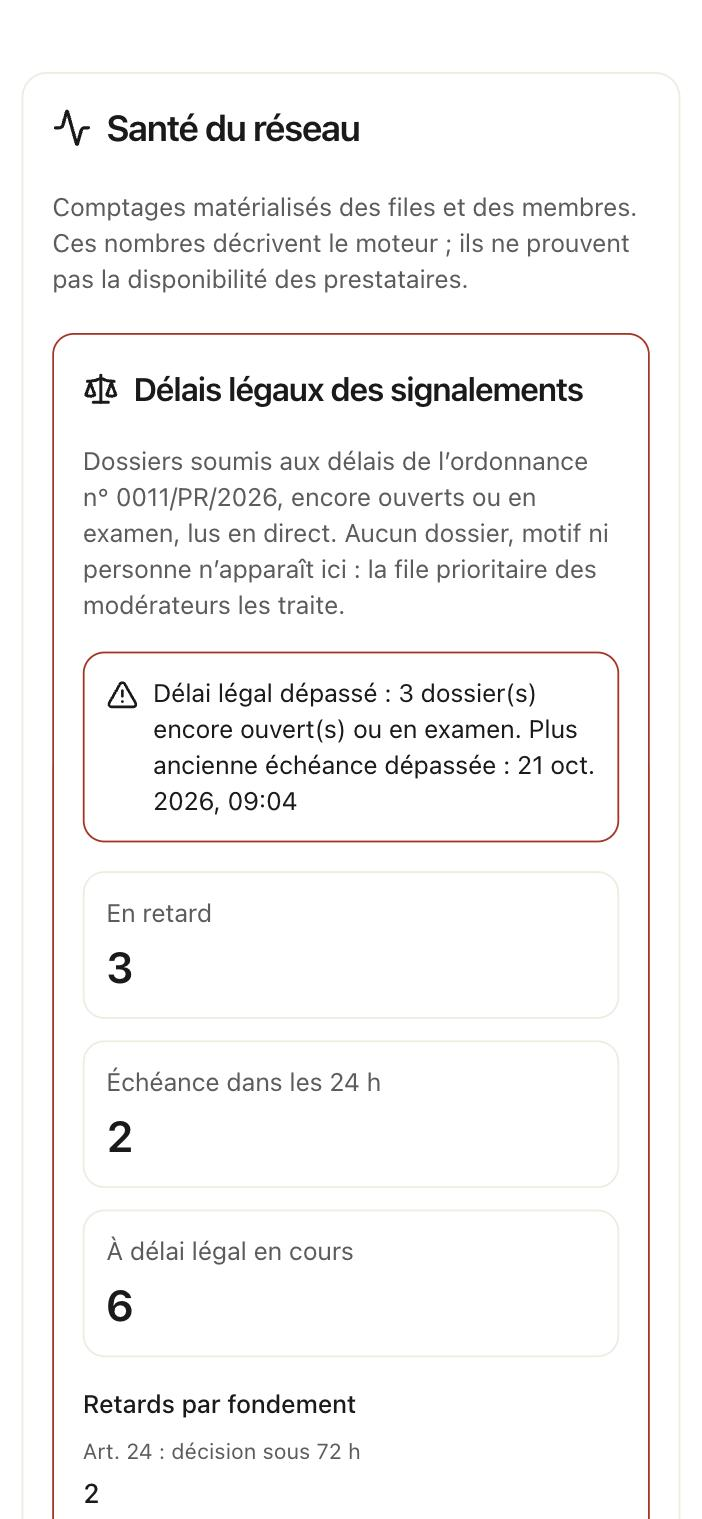
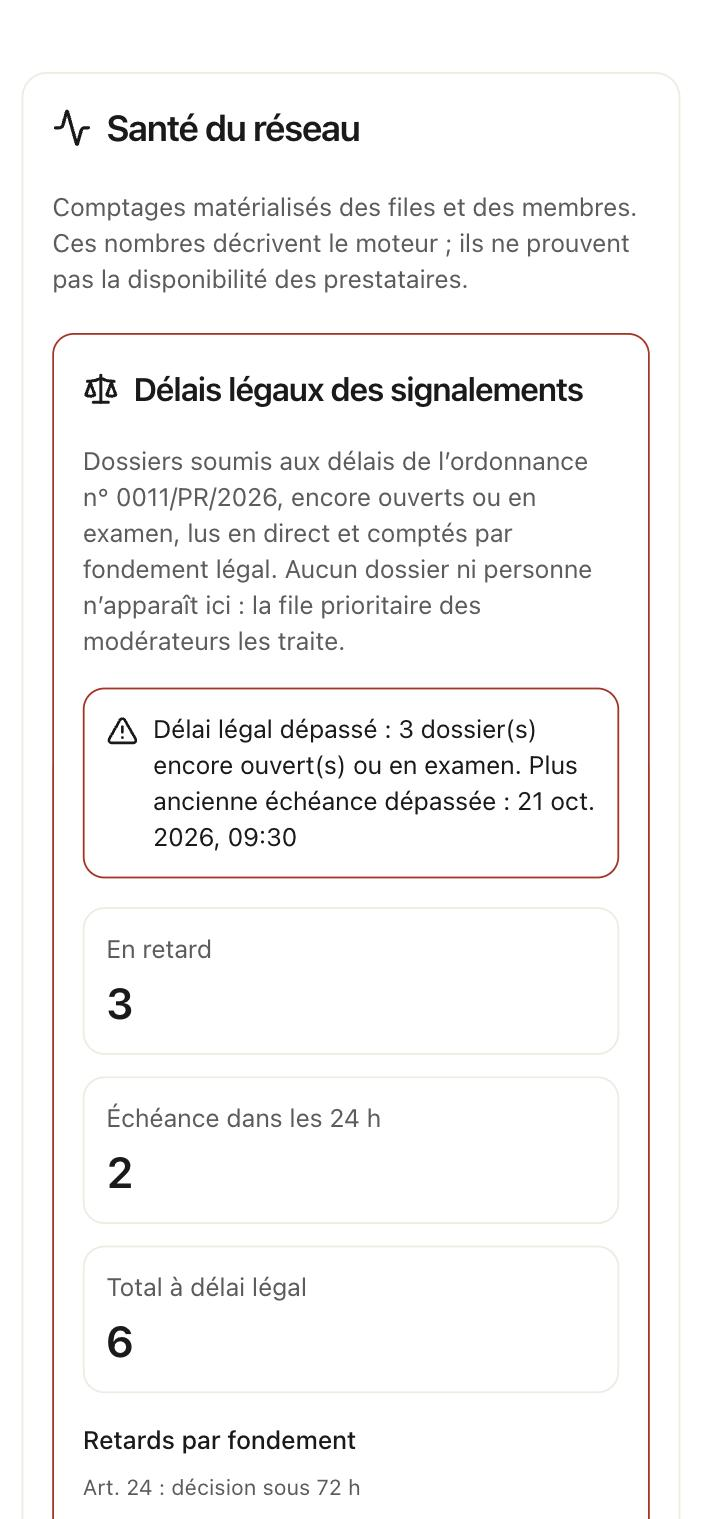
fix(console): suite de la relecture des délais légaux
- Retards par fondement : même exactitude que les retards ; en lecture bornée,
  « au moins N » ou « non déterminé », jamais un faux zéro.
- Le bloc d'alerte a sa propre frontière d'erreur : une lecture en échec (moteur
  pas encore publié) ne retire que lui, « Santé du réseau » reste lisible.
  ConsoleQueryBoundary passe dans les contrôles partagés (sans cycle d'import),
  réexportée par le tableau de bord.
- legalDeadlineAlert : échéances et horizon à la minute inférieure ; le fondement
  dit la classe du motif, jamais le motif ; donnée d'exploitation, hors règle des
  petites cohortes.
- « Total à délai légal » au lieu de « À délai légal en cours ».
- Tests : horizon quand l'un ou l'autre statut est tronqué, arrondi, fondements
  en lecture bornée, repli et relance ; suivi d'exécution et captures à jour.

diff --git a/apps/admin_antsia_ga/src/components/console-legal-deadlines.tsx b/apps/admin_antsia_ga/src/components/console-legal-deadlines.tsx
@@ -3,17 +3,20 @@
 /**
  * SU01d (ordonnance n° 0011/PR/2026, art. 24, 32, 33) — l'alerte d'exploitation des délais légaux,
  * dans « Santé du réseau ». La requête rend les échéances des dossiers encore ouverts ou en examen,
- * sans dossier, motif ni personne ; l'écran les compte à son heure, car une requête réactive n'est
- * pas relue quand le temps passe. La file prioritaire des modérateurs reste le lieu du traitement.
+ * à la minute et par fondement légal seulement ; l'écran les compte à son heure, car une requête
+ * réactive n'est pas relue quand le temps passe. La file prioritaire des modérateurs reste le lieu
+ * du traitement. C'est une donnée d'exploitation : la règle des petites cohortes vise ce qui se
+ * publie ou s'exporte (`/transparence`, export agrégé), pas l'état courant des files.
  */
 import { api, type Id } from "@antsia/api/engine"
 import { REPORT_DEADLINES_ORDINANCE, REPORT_LEGAL_BASES, reportDecisionDelayHours, type ReportLegalBasis } from "@antsia/social-domain/moderation"
+import { Button } from "@antsia/ui"
 import { useQuery } from "convex/react"
 import { AlertTriangle, Scale } from "lucide-react"
 import { useId } from "react"
 import { useTranslation } from "react-i18next"
 
-import { ConsoleDate, LoadingRows } from "./console-operation-controls"
+import { ConsoleDate, ConsoleQueryBoundary, controlStyle, LoadingRows } from "./console-operation-controls"
 
 /** « Dans les 24 h » : le délai le plus court de l'ordonnance (art. 32 et 33). */
 export const LEGAL_DUE_SOON_MS = 24 * 3_600_000
@@ -31,6 +34,7 @@ export type LegalDeadlineSummary = {
  * Les comptes de l'alerte à l'instant `now` de l'écran. En retard : échéance atteinte (`dueAt <= now`,
  * comme `reportDeadlineOutcome`). Une lecture bornée laisse hors vue des échéances toutes postérieures
  * ou égales à `horizon` : un compte n'est exact que si sa fenêtre se ferme avant ; sinon, « au moins ».
+ * Les retards par fondement partagent l'exactitude des retards.
  */
 export function summarizeLegalDeadlines(dto: Pick<LegalDeadlineAlertDto, "horizon" | "deadlines">, now: number): LegalDeadlineSummary {
   const overdueByBasis: Record<ReportLegalBasis, number> = { art24: 0, art32: 0, art33: 0 }
@@ -48,8 +52,28 @@ export function summarizeLegalDeadlines(dto: Pick<LegalDeadlineAlertDto, "horizo
   return { overdue, overdueExact: now < beyond, dueSoon, dueSoonExact: now + LEGAL_DUE_SOON_MS < beyond, open: dto.deadlines.length, openExact: dto.horizon === null, oldestOverdueAt, overdueByBasis }
 }
 
-/** Le bloc d'alerte, lu en direct et compté à l'heure `now` de « Santé du réseau ». */
+/** Une lecture en échec (moteur pas encore publié, panne) ne retire que ce bloc, jamais « Santé du réseau ». */
 export function LegalDeadlinesAlert({ networkId, now }: { networkId: Id<"networks">; now: number }) {
+  return <ConsoleQueryBoundary fallback={(_error, retry) => <LegalDeadlinesFailure retry={retry} />}><LegalDeadlinesBlock networkId={networkId} now={now} /></ConsoleQueryBoundary>
+}
+
+function LegalDeadlinesHeading({ id }: { id: string }) {
+  const { t } = useTranslation("operations")
+  return <h3 id={id} className="flex items-center gap-2 text-lg font-semibold"><Scale size={20} className="shrink-0" aria-hidden="true" />{t("health.legal.title")}</h3>
+}
+
+function LegalDeadlinesFailure({ retry }: { retry: () => void }) {
+  const { t } = useTranslation("operations")
+  const headingId = useId()
+  return <section aria-labelledby={headingId} className="flex min-w-0 flex-col gap-3 rounded-lg border border-border p-4">
+    <LegalDeadlinesHeading id={headingId} />
+    <p role="alert" className="text-sm">{t("health.legal.failed")}</p>
+    <div><Button type="button" variant="outline" style={controlStyle} onClick={retry}>{t("session.retry", { ns: "admin" })}</Button></div>
+  </section>
+}
+
+/** Le bloc d'alerte, lu en direct et compté à l'heure `now` de « Santé du réseau ». */
+function LegalDeadlinesBlock({ networkId, now }: { networkId: Id<"networks">; now: number }) {
   const { t, i18n } = useTranslation("operations")
   const headingId = useId()
   const result = useQuery(api.modules.platform.console.legalDeadlineAlert, { networkId })
@@ -59,7 +83,7 @@ export function LegalDeadlinesAlert({ networkId, now }: { networkId: Id<"network
   const count = (value: number, exact: boolean) => exact ? number.format(value) : value === 0 ? t("health.legal.undetermined") : t("health.legal.atLeast", { value: number.format(value) })
   const overdue = summary !== null && summary.overdue > 0
   return <section aria-labelledby={headingId} className={`flex min-w-0 flex-col gap-4 rounded-lg border p-4 ${overdue ? "border-destructive" : "border-border"}`}>
-    <h3 id={headingId} className="flex items-center gap-2 text-lg font-semibold"><Scale size={20} className="shrink-0" aria-hidden="true" />{t("health.legal.title")}</h3>
+    <LegalDeadlinesHeading id={headingId} />
     <p className="text-sm text-muted-foreground">{t("health.legal.lead", { ordinance: REPORT_DEADLINES_ORDINANCE })}</p>
     {result === undefined || summary === null ? <LoadingRows /> : <>
       {overdue
@@ -68,7 +92,7 @@ export function LegalDeadlinesAlert({ networkId, now }: { networkId: Id<"network
       <dl className="grid min-w-0 gap-3 sm:grid-cols-3">{([["overdue", summary.overdue, summary.overdueExact], ["dueSoon", summary.dueSoon, summary.dueSoonExact], ["open", summary.open, summary.openExact]] as const).map(([key, value, exact]) => <div key={key} className="min-w-0 rounded-lg border border-border p-3"><dt className="text-sm text-muted-foreground">{t(`health.legal.metrics.${key}`)}</dt><dd className="mt-1 break-words text-2xl font-semibold tabular-nums">{count(value, exact)}</dd></div>)}</dl>
       {overdue ? <div className="flex min-w-0 flex-col gap-2">
         <p className="text-sm font-medium">{t("health.legal.byBasis")}</p>
-        <dl className="grid min-w-0 gap-3 sm:grid-cols-3">{REPORT_LEGAL_BASES.map((basis) => <div key={basis} className="min-w-0"><dt className="text-xs text-muted-foreground">{t(`health.legal.basis.${basis}`, { hours: reportDecisionDelayHours(basis) })}</dt><dd className="mt-1 font-medium tabular-nums">{number.format(summary.overdueByBasis[basis])}</dd></div>)}</dl>
+        <dl className="grid min-w-0 gap-3 sm:grid-cols-3">{REPORT_LEGAL_BASES.map((basis) => <div key={basis} className="min-w-0"><dt className="text-xs text-muted-foreground">{t(`health.legal.basis.${basis}`, { hours: reportDecisionDelayHours(basis) })}</dt><dd className="mt-1 break-words font-medium tabular-nums">{count(summary.overdueByBasis[basis], summary.overdueExact)}</dd></div>)}</dl>
       </div> : null}
       {result.horizon !== null ? <p className="text-xs text-muted-foreground">{t("health.legal.bounded", { limit: result.limit })}</p> : null}
     </>}

diff --git a/convex/modules/platform/console.test.ts b/convex/modules/platform/console.test.ts
@@ -293,6 +293,7 @@ describe("SU01d / délais légaux dans la console", () => {
   const HOUR = 3_600_000
   type LegalCounts = Partial<Pick<Doc<"moderationTransparency">, "legalMet" | "legalMissed" | "legalAuthors">>
   type ReportExtra = Partial<Pick<Doc<"reports">, "legalBasis" | "dueAt" | "reviewedAt">>
+  const minute = (at: number) => Math.floor(at / 60_000) * 60_000
 
   /** Un dossier de fixture : la cible et son auteur ne doivent jamais ressortir de la console. */
   async function report(t: T, networkId: Id<"networks">, ownerPersonId: Id<"persons">, status: Doc<"reports">["status"], extra: ReportExtra, at = Date.now()) {
@@ -345,10 +346,13 @@ describe("SU01d / délais légaux dans la console", () => {
     expect((await f.actor.as.query(C.legalDeadlineAlert, { networkId: f.root })).deadlines).toEqual([{ dueAt, basis: "art24" }])
   })
 
-  it("l'alerte rend les échéances ouvertes ou en examen, la plus proche d'abord, sans dossier, motif ni personne", async () => {
+  it("l'alerte rend les échéances ouvertes ou en examen, la plus proche d'abord, à la minute, sans dossier, motif ni personne", async () => {
     const f = await fixture()
     const owner = await person(f.t, f.root, "auteur-alerte")
-    const now = Date.now()
+    vi.useFakeTimers({ toFake: ["Date"] })
+    // Une transmission à la seconde près : l'échéance sort à la minute inférieure.
+    const now = Date.UTC(2026, 9, 22, 8, 17, 42, 512)
+    vi.setSystemTime(now)
     await report(f.t, f.root, owner, "open", { legalBasis: "art24", dueAt: now + 72 * HOUR })
     await report(f.t, f.root, owner, "reviewing", { legalBasis: "art33", dueAt: now - HOUR })
     await report(f.t, f.root, owner, "open", { legalBasis: "art32", dueAt: now + 2 * HOUR })
@@ -359,13 +363,13 @@ describe("SU01d / délais légaux dans la console", () => {
     await report(f.t, f.other, owner, "open", { legalBasis: "art24", dueAt: now - 4 * HOUR })
     const alert = await f.actor.as.query(C.legalDeadlineAlert, { networkId: f.root })
     expect(alert).toEqual({ limit: 50, horizon: null, deadlines: [
-      { dueAt: now - HOUR, basis: "art33" },
-      { dueAt: now + 2 * HOUR, basis: "art32" },
-      { dueAt: now + 72 * HOUR, basis: "art24" },
+      { dueAt: Date.UTC(2026, 9, 22, 7, 17), basis: "art33" },
+      { dueAt: Date.UTC(2026, 9, 22, 10, 17), basis: "art32" },
+      { dueAt: Date.UTC(2026, 9, 25, 8, 17), basis: "art24" },
     ] })
     const text = JSON.stringify(alert)
-    for (const hidden of [owner, "harassment", "person", f.actor.personId]) expect(text).not.toContain(hidden)
-    expect(await f.actor.as.query(C.legalDeadlineAlert, { networkId: f.other })).toEqual({ limit: 50, horizon: null, deadlines: [{ dueAt: now - 4 * HOUR, basis: "art24" }] })
+    for (const hidden of [owner, "harassment", "person", f.actor.personId, String(now + 2 * HOUR)]) expect(text).not.toContain(hidden)
+    expect(await f.actor.as.query(C.legalDeadlineAlert, { networkId: f.other })).toEqual({ limit: 50, horizon: null, deadlines: [{ dueAt: minute(now - 4 * HOUR), basis: "art24" }] })
   })
 
   it("l'alerte est bornée par statut et dit son horizon ; seul un opérateur vivant la lit, jamais pour un réseau archivé", async () => {
@@ -377,14 +381,32 @@ describe("SU01d / délais légaux dans la console", () => {
     const alert = await f.actor.as.query(C.legalDeadlineAlert, { networkId: f.root })
     // Cinquante ouverts lus, le cinquante et unième fixe l'horizon ; le dossier en examen est lu à part.
     expect(alert.deadlines).toHaveLength(51)
-    expect(alert.horizon).toBe(now + 50 * HOUR)
-    expect(alert.deadlines.slice(0, 50).every((item, n) => item.dueAt === now + n * HOUR && item.basis === "art24")).toBe(true)
-    expect(alert.deadlines[50]).toEqual({ dueAt: now + 100 * HOUR, basis: "art33" })
+    expect(alert.horizon).toBe(minute(now + 50 * HOUR))
+    expect(alert.deadlines.slice(0, 50).every((item, n) => item.dueAt === minute(now + n * HOUR) && item.basis === "art24")).toBe(true)
+    expect(alert.deadlines[50]).toEqual({ dueAt: minute(now + 100 * HOUR), basis: "art33" })
 
     // Un membre du réseau, même auteur des dossiers, n'est pas un opérateur.
     const member = f.t.withIdentity({ subject: "console-auteur-borne" })
     expect(await errorCode(member.query(C.legalDeadlineAlert, { networkId: f.root }))).toBe("operatorRequired")
     await f.t.run(async (ctx) => await ctx.db.patch(f.other, { status: "archived" }))
     expect(await errorCode(f.actor.as.query(C.legalDeadlineAlert, { networkId: f.other }))).toBe("notFound")
+  })
+
+  it("l'horizon est la plus proche des échéances non lues, quel que soit le statut tronqué le plus tôt", async () => {
+    const f = await fixture()
+    const owner = await person(f.t, f.root, "auteur-horizon")
+    const now = Date.now()
+    // Racine : la file ouverte est tronquée la première ; réseau voisin : la file en examen.
+    for (let n = 0; n <= 50; n++) {
+      await report(f.t, f.root, owner, "open", { legalBasis: "art24", dueAt: now + n * HOUR })
+      await report(f.t, f.root, owner, "reviewing", { legalBasis: "art33", dueAt: now + (100 + n) * HOUR })
+      await report(f.t, f.other, owner, "open", { legalBasis: "art24", dueAt: now + (100 + n) * HOUR })
+      await report(f.t, f.other, owner, "reviewing", { legalBasis: "art33", dueAt: now + n * HOUR })
+    }
+    for (const networkId of [f.root, f.other]) {
+      const alert = await f.actor.as.query(C.legalDeadlineAlert, { networkId })
+      expect(alert.horizon).toBe(minute(now + 50 * HOUR))
+      expect(alert.deadlines).toHaveLength(100)
+    }
   })
 })

diff --git a/apps/admin_antsia_ga/src/components/console-operations.test.tsx b/apps/admin_antsia_ga/src/components/console-operations.test.tsx
@@ -190,14 +190,31 @@ describe("raccords des opérations de console", () => {
     await render({ section: "health", networkId: networkA, canAdmin: false })
     expect(container.querySelector('[role="alert"]')?.textContent).toContain("Délai légal dépassé : au moins 50 dossier(s)")
     expect(container.textContent).toContain("Lecture bornée aux 50 échéances les plus proches de chaque statut")
-    // Au-delà de la borne, aucun minimum utile pour les 24 h à venir : ni « 0 », ni « au moins 0 ».
-    const metrics = Array.from(container.querySelectorAll("section section dl:first-of-type dd")).map((element) => element.textContent)
-    expect(metrics.slice(0, 3)).toEqual(["au moins 50", "Non déterminé", "au moins 50"])
+    // Au-delà de la borne, aucun compte ne se dit zéro : ni « 0 », ni « au moins 0 », retards par fondement compris.
+    const legal = Array.from(container.querySelectorAll("section")).find((element) => element.querySelector("h3")?.textContent === "Délais légaux des signalements")
+    expect(Array.from(legal?.querySelectorAll("dd") ?? []).map((element) => element.textContent)).toEqual(["au moins 50", "Non déterminé", "au moins 50", "au moins 50", "Non déterminé", "Non déterminé"])
     state.data["modules/platform/console:legalDeadlineAlert"] = { limit: 50, horizon: null, deadlines: [{ dueAt: now + 48 * 3_600_000, basis: "art24" }] }
     await render({ section: "health", networkId: networkB, canAdmin: false })
     expect(container.querySelector('[role="alert"]')).toBeNull()
     expect(container.textContent).toContain("Aucun délai légal dépassé parmi les dossiers ouverts ou en examen.")
     expect(container.textContent).not.toContain("Retards par fondement")
+  })
+  it("une lecture des délais en échec ne retire que son bloc ; « Réessayer » la relance", async () => {
+    vi.spyOn(console, "error").mockImplementation(() => undefined)
+    let failing = true
+    state.data["modules/platform/console:legalDeadlineAlert"] = () => {
+      if (failing) throw new Error("Could not find public function for 'modules/platform/console:legalDeadlineAlert'")
+      return { limit: 50, horizon: null, deadlines: [] }
+    }
+    state.data["modules/platform/console:getMetrics"] = { status: "ready", generatedAt: 1000, counts: { members: 12, openReports: 3, openAppeals: 0, pendingFiles: 0, deadLetters: 0 } }
+    await render({ section: "health", networkId: networkA, canAdmin: false })
+    expect(container.querySelector('[role="alert"]')?.textContent).toBe("Les délais légaux n’ont pas pu être lus. Les autres indicateurs de cette page restent valables.")
+    // « Santé du réseau » reste lisible : ses compteurs s'affichent toujours.
+    expect(Array.from(container.querySelectorAll("dd")).map((element) => element.textContent)).toContain("12")
+    failing = false
+    await act(async () => button("Réessayer").click())
+    expect(container.querySelector('[role="alert"]')).toBeNull()
+    expect(container.textContent).toContain("Aucun délai légal dépassé parmi les dossiers ouverts ou en examen.")
   })
   it("un acteur humain masqué n'est pas présenté comme le système", async () => {
     state.data["modules/platform/audit:paginateAudit"] = page([

diff --git a/convex/modules/platform/console.ts b/convex/modules/platform/console.ts
@@ -27,6 +27,7 @@ const TEAM_PROJECTION_LIMIT = 500
 const METRIC_BATCH = 50
 // SU01d : échéances lues par statut pour l'alerte, la même borne que la file prioritaire des modérateurs.
 const LEGAL_ALERT_LIMIT = 50
+const minuteOf = (at: number) => Math.floor(at / 60_000) * 60_000
 const emptyCounts = (): Counts => ({ members: 0, openReports: 0, openAppeals: 0, pendingFiles: 0, deadLetters: 0 })
 const motiveOf = (reason: string) => checked(() => assertDecisionReason(reason, 3))
 
@@ -259,10 +260,12 @@ export const aggregateExport = operatorQuery({
 /**
  * SU01d (ordonnance n° 0011/PR/2026, art. 24, 32, 33) — l'alerte d'exploitation des délais légaux :
  * les échéances des dossiers encore ouverts ou en examen, la plus proche d'abord, avec leur seul
- * fondement. Ni dossier, ni cible, ni motif, ni personne : la file prioritaire des modérateurs les
- * traite. L'écran compte les retards avec son horloge, car une requête n'est pas relue quand le
- * temps passe. `horizon` est l'échéance la plus proche restée hors lecture : avant elle, les
- * comptes de l'écran sont exacts ; à partir d'elle, ce sont des minimums.
+ * fondement légal (qui dit la classe du motif, jamais le motif). Ni dossier, ni cible, ni personne :
+ * la file prioritaire des modérateurs les traite. L'écran compte les retards avec son horloge, car
+ * une requête n'est pas relue quand le temps passe. `horizon` est l'échéance la plus proche restée
+ * hors lecture : avant elle, les comptes de l'écran sont exacts ; à partir d'elle, des minimums.
+ * Échéances et horizon sont arrondis à la minute inférieure : l'écran compte à la minute, l'heure
+ * exacte d'une transmission n'a pas à sortir, et un retard s'annonce au plus tôt, jamais en retard.
  */
 export const legalDeadlineAlert = operatorQuery({
   args: { networkId: v.id("networks") },
@@ -275,8 +278,8 @@ export const legalDeadlineAlert = operatorQuery({
       // borné : les LEGAL_ALERT_LIMIT + 1 échéances les plus proches de chaque statut ; `dueAt` absent est exclu par la borne basse.
       const batch = await ctx.db.query("reports").withIndex("by_network_status_dueAt", (q) => q.eq("networkId", network._id).eq("status", status).gte("dueAt", 0)).take(LEGAL_ALERT_LIMIT + 1)
       const beyond = batch[LEGAL_ALERT_LIMIT]?.dueAt
-      if (beyond !== undefined) horizon = horizon === null ? beyond : Math.min(horizon, beyond)
-      for (const row of batch.slice(0, LEGAL_ALERT_LIMIT)) if (row.dueAt !== undefined && row.legalBasis !== undefined) deadlines.push({ dueAt: row.dueAt, basis: row.legalBasis })
+      if (beyond !== undefined) horizon = horizon === null ? minuteOf(beyond) : Math.min(horizon, minuteOf(beyond))
+      for (const row of batch.slice(0, LEGAL_ALERT_LIMIT)) if (row.dueAt !== undefined && row.legalBasis !== undefined) deadlines.push({ dueAt: minuteOf(row.dueAt), basis: row.legalBasis })
     }
     deadlines.sort((a, b) => a.dueAt - b.dueAt)
     return { limit: LEGAL_ALERT_LIMIT, horizon, deadlines }

diff --git a/apps/admin_antsia_ga/src/components/console-dashboard.tsx b/apps/admin_antsia_ga/src/components/console-dashboard.tsx
@@ -12,14 +12,18 @@ import { useMutation, useQuery } from "convex/react"
 import type { FunctionReturnType } from "convex/server"
 import { ArrowLeft, Globe2, Plus, ShieldCheck } from "lucide-react"
 import Link from "next/link"
-import { Component, Fragment, type ReactNode, useCallback, useEffect, useId, useRef, useState } from "react"
+import { type ReactNode, useCallback, useEffect, useId, useRef, useState } from "react"
 import { useForm } from "react-hook-form"
 import { useTranslation } from "react-i18next"
 import { toast } from "sonner"
 import { z } from "zod"
 
+import { ConsoleQueryBoundary } from "./console-operation-controls"
 import { OperationsPanel } from "./console-operations"
 import { CONSOLE_SECTIONS, readConsoleState, routes, type ConsoleSection } from "@/lib/routes"
+
+// La frontière vit avec les contrôles partagés, que les panneaux importent sans cycle ; son chemin d'import reste valable.
+export { ConsoleQueryBoundary }
 
 export type ConsoleOperator = { admissionId?: Id<"operatorSessionProofs">; personId: Id<"persons">; displayName: string | null; role: "platform_operator" | "platform_admin" }
 type NetworkSummary = FunctionReturnType<typeof api.modules.networks.networks.listForConsole>[number]
@@ -32,15 +36,6 @@ function useLiveConsoleForm() {
   const live = useRef(true)
   useEffect(() => { live.current = true; return () => { live.current = false } }, [])
   return live
-}
-
-/** Les erreurs Convex traversent le rendu ; une panne n'est jamais un refus métier. */
-export class ConsoleQueryBoundary extends Component<{ children: ReactNode; fallback: (error: unknown, retry: () => void) => ReactNode }, { caught: boolean; error: unknown; attempt: number }> {
-  override state = { caught: false, error: null as unknown, attempt: 0 }
-  static getDerivedStateFromError(error: unknown) { return { caught: true, error } }
-  override render() {
-    return this.state.caught ? this.props.fallback(this.state.error, () => this.setState((state) => ({ caught: false, error: null, attempt: state.attempt + 1 }))) : <Fragment key={this.state.attempt}>{this.props.children}</Fragment>
-  }
 }
 
 function QueryFailure({ error, retry }: { error: unknown; retry: () => void }) {

diff --git a/apps/admin_antsia_ga/src/components/console-operation-controls.tsx b/apps/admin_antsia_ga/src/components/console-operation-controls.tsx
@@ -8,7 +8,7 @@ import { Button, Field, TextArea } from "@antsia/ui"
 import { zodResolver } from "@hookform/resolvers/zod"
 import type { TFunction } from "i18next"
 import { ChevronLeft, ChevronRight } from "lucide-react"
-import { createContext, useContext, useEffect, useId, useMemo, useRef, useState, type ReactNode } from "react"
+import { Component, createContext, Fragment, useContext, useEffect, useId, useMemo, useRef, useState, type ReactNode } from "react"
 import { useForm } from "react-hook-form"
 import { useTranslation } from "react-i18next"
 import { toast } from "sonner"
@@ -17,6 +17,15 @@ import { z } from "zod"
 export const controlStyle = { minHeight: 44, whiteSpace: "normal" as const }
 export const inputStyle = { minHeight: 44 }
 export const panelClass = "min-w-0 rounded-xl border border-border bg-card p-4 sm:p-6"
+
+/** Les erreurs Convex traversent le rendu ; une panne n'est jamais un refus métier. */
+export class ConsoleQueryBoundary extends Component<{ children: ReactNode; fallback: (error: unknown, retry: () => void) => ReactNode }, { caught: boolean; error: unknown; attempt: number }> {
+  override state = { caught: false, error: null as unknown, attempt: 0 }
+  static getDerivedStateFromError(error: unknown) { return { caught: true, error } }
+  override render() {
+    return this.state.caught ? this.props.fallback(this.state.error, () => this.setState((state) => ({ caught: false, error: null, attempt: state.attempt + 1 }))) : <Fragment key={this.state.attempt}>{this.props.children}</Fragment>
+  }
+}
 
 type DraftRegistry = { set: (id: string, dirty: boolean, pending?: boolean) => void; remove: (id: string) => void; isDirty: () => boolean; isPending: () => boolean }
 const OperationDraftContext = createContext<DraftRegistry | null>(null)

diff --git a/docs/etudes/2026-10-21-sept-univers-et-vie-publique/EXECUTION.md b/docs/etudes/2026-10-21-sept-univers-et-vie-publique/EXECUTION.md
@@ -167,11 +167,13 @@ Périmètre tranché par le propriétaire le 22/10/2026 : l'export suit la règl
 - JSON et CSV : trois colonnes ajoutées **à la fin** (`legalStatus,legalMet,legalMissed`). La construction fermée de l'écran remasque tout nombre sous le seuil et refuse un état inconnu ; la réponse d'un moteur antérieur se lit « non mesurée ».
 
 *Alerte d'exploitation* (`platform/console.legalDeadlineAlert`, bloc « Délais légaux des signalements » en tête de « Santé du réseau ») :
-- Lecture opérateur bornée : les 50 échéances les plus proches de chaque statut, ouvert ou en examen (`reports.by_network_status_dueAt`), avec leur seul fondement. Ni dossier, ni cible, ni motif, ni personne.
+- Lecture opérateur bornée : les 50 échéances les plus proches de chaque statut, ouvert ou en examen (`reports.by_network_status_dueAt`), arrondies à la minute inférieure, avec leur seul fondement légal (la classe du motif, jamais le motif). Ni dossier, ni cible, ni personne.
+- C'est une donnée d'exploitation, hors de la règle des petites cohortes, qui vise ce qui se publie ou s'exporte : les opérateurs décident déjà en dernier ressort sur tout dossier (`decideAsOperator`) et lisent le journal des décisions. L'arrondi à la minute ne fait sortir que le nécessaire ; un retard s'annonce au plus tôt, jamais en retard.
 - L'écran compte à son heure, rafraîchie chaque minute, car une requête n'est pas relue quand le temps passe :
-  - en retard (échéance atteinte, comme `reportDeadlineOutcome`), échéance dans les 24 h, en cours ;
+  - en retard (échéance atteinte, comme `reportDeadlineOutcome`), échéance dans les 24 h, total à délai légal ;
   - retards par fondement (art. 24, 32, 33) et plus ancienne échéance dépassée.
-- Au-delà de la borne, `horizon` (la plus proche échéance non lue) dit quels comptes sont des minimums : « au moins N », ou « non déterminé ».
+- Au-delà de la borne, `horizon` (la plus proche échéance non lue) dit quels comptes sont des minimums : « au moins N », ou « non déterminé » ; les retards par fondement suivent l'exactitude des retards.
+- Une lecture en échec (moteur pas encore publié, panne) ne retire que ce bloc : sa frontière d'erreur laisse « Santé du réseau » lisible et propose « Réessayer ». `ConsoleQueryBoundary` passe dans les contrôles partagés de la console, et son ancien chemin d'import reste valable.
 - En retard : bloc bordé de rouge et message `role="alert"` ; sinon, un simple état. Aucune notification externe : la file prioritaire des modérateurs reste le lieu du traitement.
 - Ni cron ni écriture : les cliquets `operator-audit` et `crons-contract` n'ont rien de nouveau à garder.
 
@@ -180,20 +182,23 @@ Périmètre tranché par le propriétaire le 22/10/2026 : l'export suit la règl
 - Moteur, `console.test.ts` :
   - la règle de l'export, période par période ;
   - de bout en bout avec les deux passages réels et l'horloge simulée : 5 tenues, 1 manquée, 5 auteurs, donc `legalMet: 5` et `legalMissed: null` ;
-  - l'alerte : statuts, file ordinaire, réseau voisin, aucun identifiant ni motif ; sa borne et son horizon ; le refus d'un membre non opérateur et d'un réseau archivé.
+  - l'alerte : statuts, file ordinaire, réseau voisin, échéances à la minute, aucun identifiant ni motif ; sa borne ; le refus d'un membre non opérateur et d'un réseau archivé ;
+  - l'horizon quand l'un ou l'autre statut est tronqué le premier (`Math.max` ou une simple affectation à la place de `Math.min` font échouer le test).
 - Écran :
   - export fermé : remasque, état inconnu, moteur antérieur, colonnes CSV ;
   - comptes de l'alerte : bascule à l'échéance, exactitude selon l'horizon ;
-  - rendu des deux panneaux ; un dossier passe en retard une minute plus tard, sans relire la base.
-- `bun run verify` vert sur le candidat tiré de `main` `4a6741a`, DIASPORALE compris : 3 228 tests du moteur, 150 de cliquets, 97 de la console, 1 767 d'antsia.ga ; aucune erreur de lint.
+  - rendu des deux panneaux ; un dossier passe en retard une minute plus tard, sans relire la base ;
+  - lecture bornée : aucun compte, fondements compris, ne se dit zéro ;
+  - lecture en échec : seul le bloc tombe, « Réessayer » le relance.
+- `bun run verify` vert sur la branche à jour de `main` `3e6c50d`, DIASPORALE compris : 3 229 tests du moteur, 150 de cliquets, 98 de la console, 1 767 d'antsia.ga, 1 405 de diasporale.com ; aucune erreur de lint.
 - Recette : la console n'admet qu'une session IDN de niveau 2, impossible en local sans client IDN, et le rapport PA7 exclut tout contournement. Un banc jetable, jamais commité, a monté les vrais `ExportPanel` et `HealthPanel`, avec `convex/react` simulé par des données fictives et la feuille compilée depuis `globals.css` de la console :
-  - à 1 280 px, l'export dit « 7 · moins de 5 », « moins de 5 · 6 », « masquées » et « non mesurées », et masque les compléments des dossiers ; l'alerte dit 3 retards (2 au titre de l'art. 24, 1 de l'art. 33), 2 échéances dans les 24 h et 6 dossiers en cours ;
-  - lecture bornée : « au moins 50 » en retard et en cours, « non déterminé » pour les 24 h à venir ;
+  - à 1 280 px, l'export dit « 7 · moins de 5 », « moins de 5 · 6 », « masquées » et « non mesurées », et masque les compléments des dossiers ; l'alerte dit 3 retards (2 au titre de l'art. 24, 1 de l'art. 33), 2 échéances dans les 24 h et 6 dossiers au total ;
+  - lecture bornée : « au moins 50 » en retard et au total, « non déterminé » pour les 24 h à venir ; par fondement, « au moins 40 », « non déterminé », « au moins 10 » ;
   - à 390 px : aucun défilement horizontal (`scrollWidth` 390), aucun élément hors de l'écran ;
   - captures : [`recette/su01d-console-banc-*.jpg`](recette/).
 
 **Ce qui reste de SU01d**
-- Console : mettre en ligne le backend (export étendu, `legalDeadlineAlert`) avant la console elle-même ; aucun déploiement n'a été fait. Sa recette connectée attend un client IDN de bac à sable (PA7).
+- Console : mettre en ligne le backend (export étendu, `legalDeadlineAlert`), puis la console. Avant le backend, son bloc d'alerte dit seulement qu'il ne peut pas lire. Aucun déploiement n'a été fait. Sa recette connectée attend un client IDN de bac à sable (PA7).
 - Publier le front DIASPORALE du bureau (diasporale#26) : aucun backend nouveau. C'est au propriétaire.
 - Premiers chiffres : le passage quotidien de 04 h 10 UTC mesure la veille. Une journée ne se publie qu'à partir de 5 échéances sur 5 auteurs.
 
